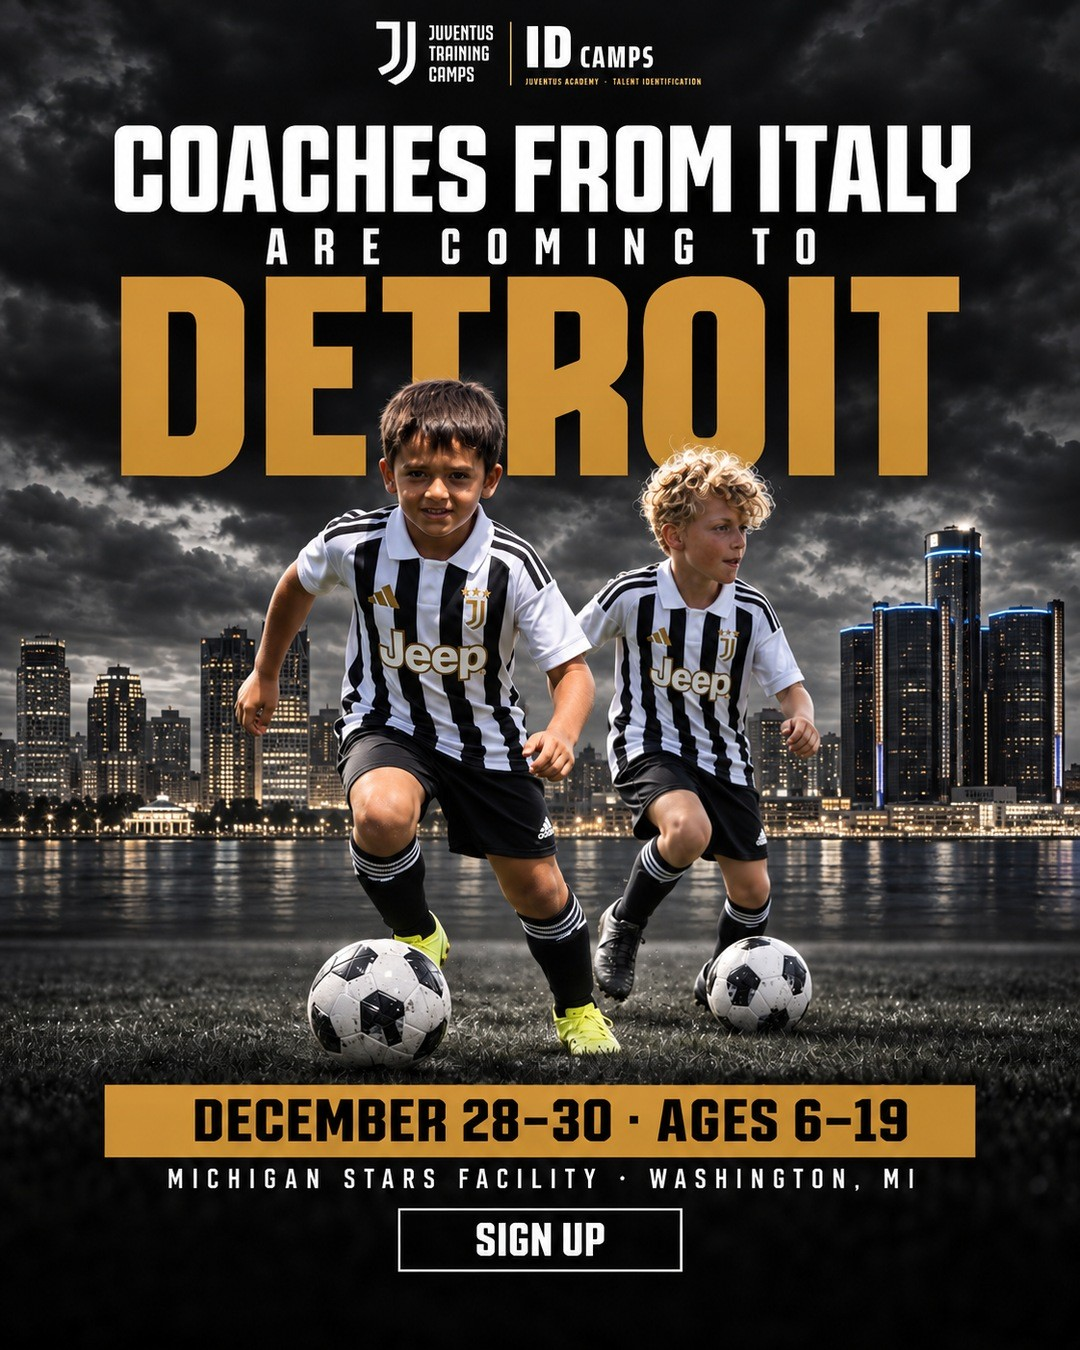
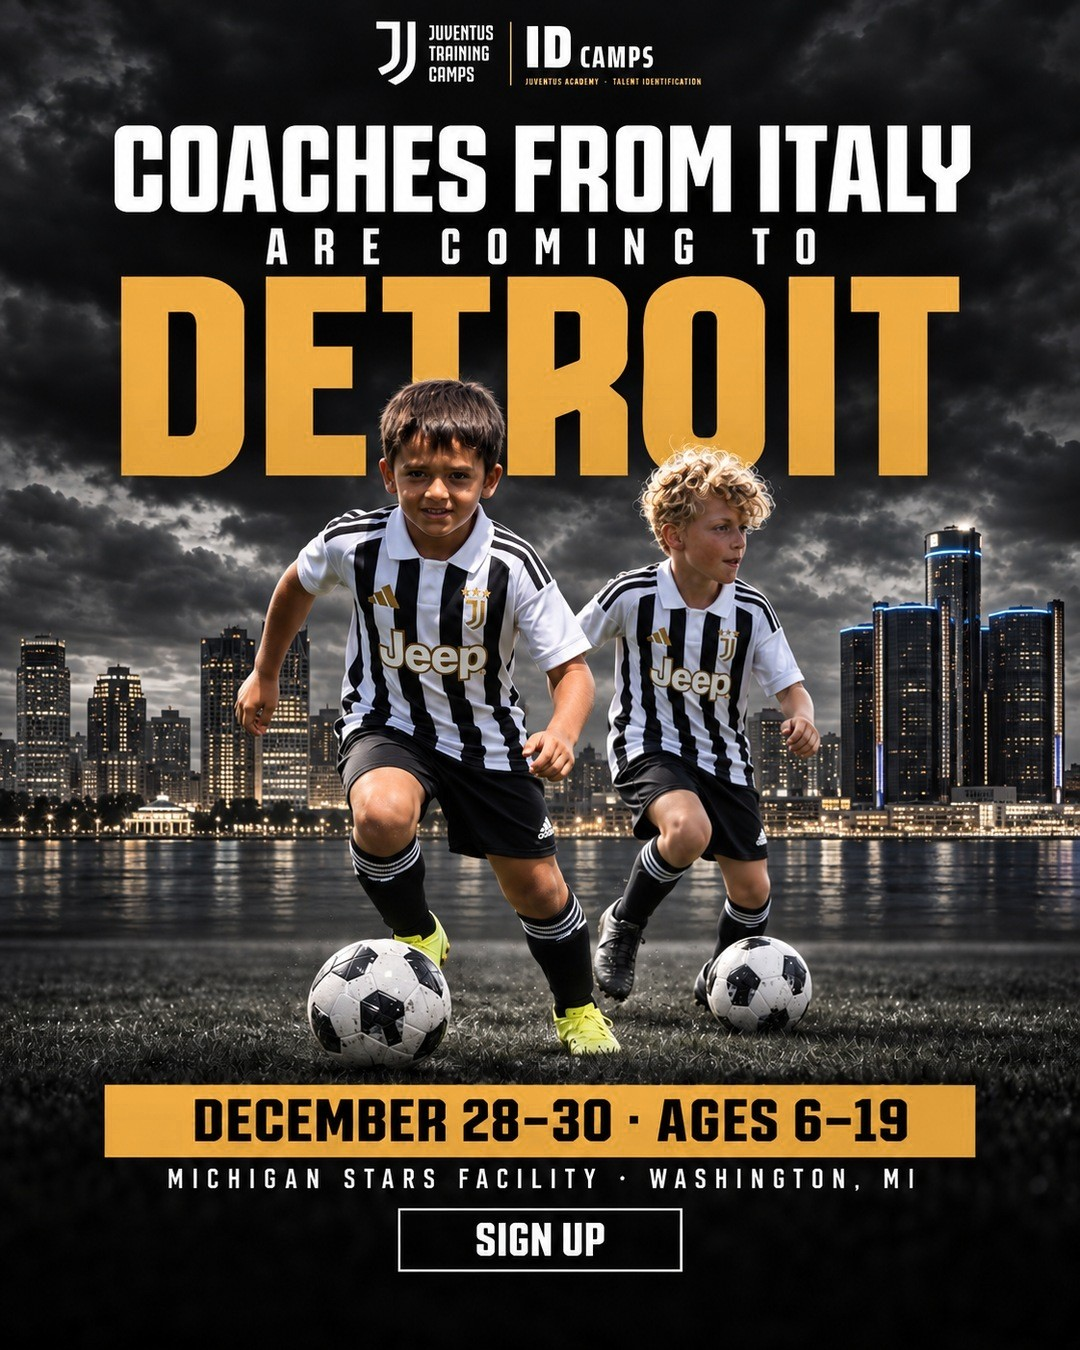
Detroit: dorado de los estáticos igual al del Hero

Changed region(s): [[0.0917, 0.1867, 0.8861, 0.3733], [0.0917, 0.7778, 0.9167, 0.8711]]

diff --git a/index.html b/index.html
@@ -150,7 +150,7 @@ footer{margin-top:40px;color:var(--muted);font-size:14px;border-top:1px solid va
 </article><article class="ad" data-id="DET_3">
   <header><span class="num">3</span><h3>STATIC COACHES (Imagen)</h3><span class="idi">Inglés</span><span class="estado" data-estado>Lista</span></header>
   <div class="cuerpo">
-    <div class="media"><img src="assets/DET_3.jpg?v=1793598411" data-grande="assets/DET_3_g.jpg?v=1793598411" class="ampliable" alt="STATIC COACHES (Imagen) · Detroit" title="Clic para verla en grande"></div>
+    <div class="media"><img src="assets/DET_3.jpg?v=1793598886" data-grande="assets/DET_3_g.jpg?v=1793598886" class="ampliable" alt="STATIC COACHES (Imagen) · Detroit" title="Clic para verla en grande"></div>
     <div class="copy">
       <div class="lbl">Texto principal <span class="hint">· se puede editar</span></div>
       <div class="tp ed" contenteditable="true" spellcheck="true" data-campo="texto">Juventus Academy coaches are flying in from Italy to train your player, without leaving Detroit. 🇮🇹⚽<br><br>For three days, every session follows the Juventus methodology, and every player gets individual attention from the coaches.<br><br>📅 December 28–30<br>🕘 Ages 6–14: 9 AM – 12 PM · Ages 15–19: 1 PM – 4 PM<br>📍 Michigan Stars Facility, Washington, MI<br>⚽ Boys and girls, ages 6–19<br><br>Tap Sign Up to register your player 👇</div>
@@ -169,7 +169,7 @@ footer{margin-top:40px;color:var(--muted);font-size:14px;border-top:1px solid va
 </article><article class="ad" data-id="DET_4">
   <header><span class="num">4</span><h3>STATIC UN DÍA EN EL ID CAMP (Imagen)</h3><span class="idi">Inglés</span><span class="estado" data-estado>Lista</span></header>
   <div class="cuerpo">
-    <div class="media"><img src="assets/DET_4.jpg?v=1793598411" data-grande="assets/DET_4_g.jpg?v=1793598411" class="ampliable" alt="STATIC UN DÍA EN EL ID CAMP (Imagen) · Detroit" title="Clic para verla en grande"></div>
+    <div class="media"><img src="assets/DET_4.jpg?v=1793598886" data-grande="assets/DET_4_g.jpg?v=1793598886" class="ampliable" alt="STATIC UN DÍA EN EL ID CAMP (Imagen) · Detroit" title="Clic para verla en grande"></div>
     <div class="copy">
       <div class="lbl">Texto principal <span class="hint">· se puede editar</span></div>
       <div class="tp ed" contenteditable="true" spellcheck="true" data-campo="texto">This is a day at the Juventus ID Camp ⚽<br><br>Warm-up with Juventus Academy coaches from Italy, technique, games and closing. Every session follows the Juventus methodology, in small groups by age, and every player gets individual attention from the coaches.<br><br>📅 December 28–30<br>🕘 Ages 6–14: 9 AM – 12 PM · Ages 15–19: 1 PM – 4 PM<br>📍 Michigan Stars Facility, Washington, MI<br>⚽ Boys and girls, ages 6–19<br><br>No tryout needed. Tap Sign Up to register your player 👇</div>
@@ -188,7 +188,7 @@ footer{margin-top:40px;color:var(--muted);font-size:14px;border-top:1px solid va
 </article><article class="ad" data-id="DET_5">
   <header><span class="num">5</span><h3>STATIC ASÍ SE VIVIÓ (Imagen)</h3><span class="idi">Inglés</span><span class="estado" data-estado>Lista</span></header>
   <div class="cuerpo">
-    <div class="media"><img src="assets/DET_5.jpg?v=1793598411" data-grande="assets/DET_5_g.jpg?v=1793598411" class="ampliable" alt="STATIC ASÍ SE VIVIÓ (Imagen) · Detroit" title="Clic para verla en grande"></div>
+    <div class="media"><img src="assets/DET_5.jpg?v=1793598886" data-grande="assets/DET_5_g.jpg?v=1793598886" class="ampliable" alt="STATIC ASÍ SE VIVIÓ (Imagen) · Detroit" title="Clic para verla en grande"></div>
     <div class="copy">
       <div class="lbl">Texto principal <span class="hint">· se puede editar</span></div>
       <div class="tp ed" contenteditable="true" spellcheck="true" data-campo="texto">This is how we lived Juventus in Detroit 🇮🇹⚽<br><br>Boys and girls training with Juventus coaches, learning and enjoying every session. Now the Juventus ID Camp comes to Detroit, December 28–30.<br><br>📅 December 28–30<br>🕘 Ages 6–14: 9 AM – 12 PM · Ages 15–19: 1 PM – 4 PM<br>📍 Michigan Stars Facility, Washington, MI<br>⚽ Boys and girls, ages 6–19<br><br>Tap Sign Up to register your player 👇</div>
@@ -207,7 +207,7 @@ footer{margin-top:40px;color:var(--muted);font-size:14px;border-top:1px solid va
 </article><article class="ad" data-id="DET_6">
   <header><span class="num">6</span><h3>STATIC JUVENTUS WAY (Imagen)</h3><span class="idi">Inglés</span><span class="estado" data-estado>Lista</span></header>
   <div class="cuerpo">
-    <div class="media"><img src="assets/DET_6.jpg?v=1793598411" data-grande="assets/DET_6_g.jpg?v=1793598411" class="ampliable" alt="STATIC JUVENTUS WAY (Imagen) · Detroit" title="Clic para verla en grande"></div>
+    <div class="media"><img src="assets/DET_6.jpg?v=1793598886" data-grande="assets/DET_6_g.jpg?v=1793598886" class="ampliable" alt="STATIC JUVENTUS WAY (Imagen) · Detroit" title="Clic para verla en grande"></div>
     <div class="copy">
       <div class="lbl">Texto principal <span class="hint">· se puede editar</span></div>
       <div class="tp ed" contenteditable="true" spellcheck="true" data-campo="texto">Physical. Technical. Tactical. ⚪⚫<br><br>That’s the Juventus way, and this December your player trains it in Detroit, with Juventus Academy coaches from Italy. Three days, the three parts in every session, adapted to every age group.<br><br>📅 December 28–30<br>🕘 Ages 6–14: 9 AM – 12 PM · Ages 15–19: 1 PM – 4 PM<br>📍 Michigan Stars Facility, Washington, MI<br>⚽ Boys and girls, ages 6–19<br><br>Tap Sign Up to register your player 👇</div>
